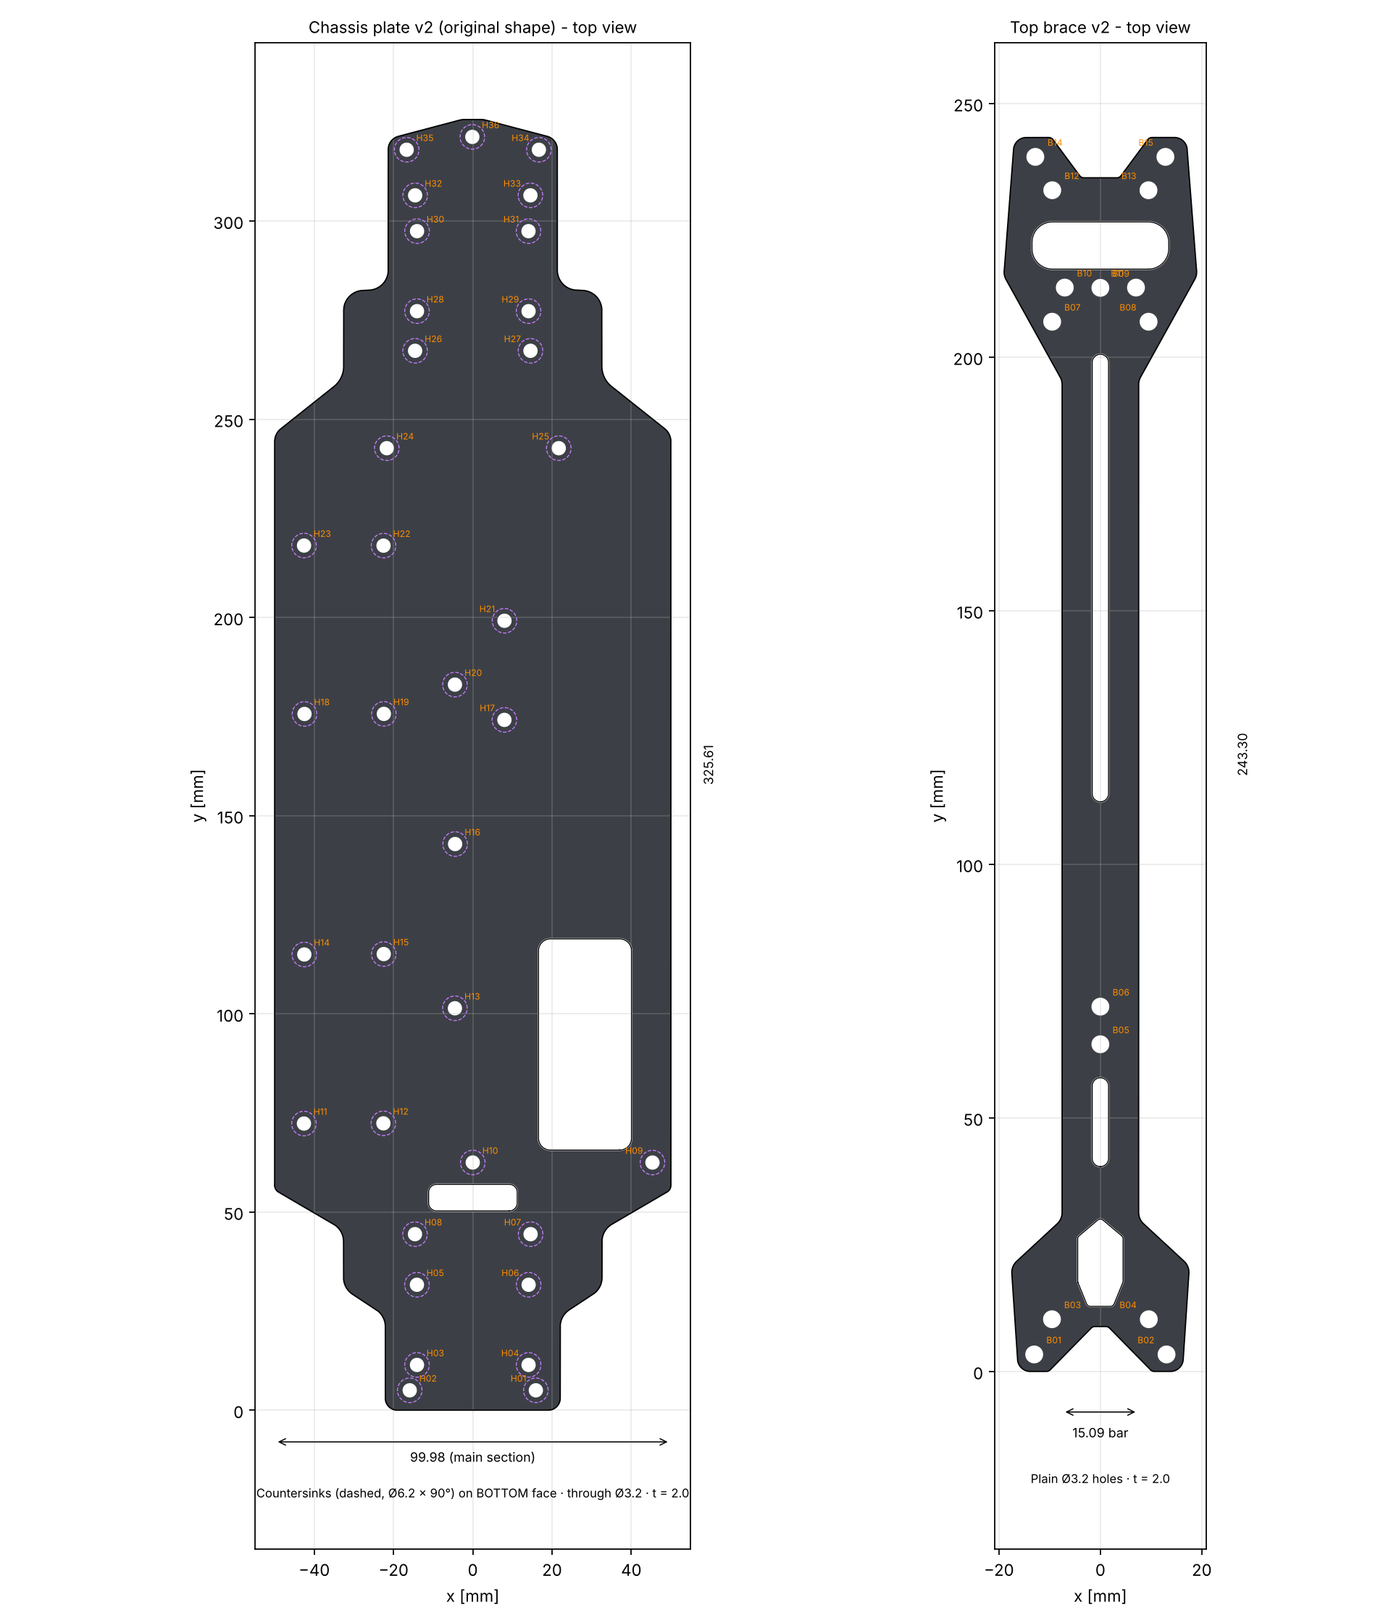
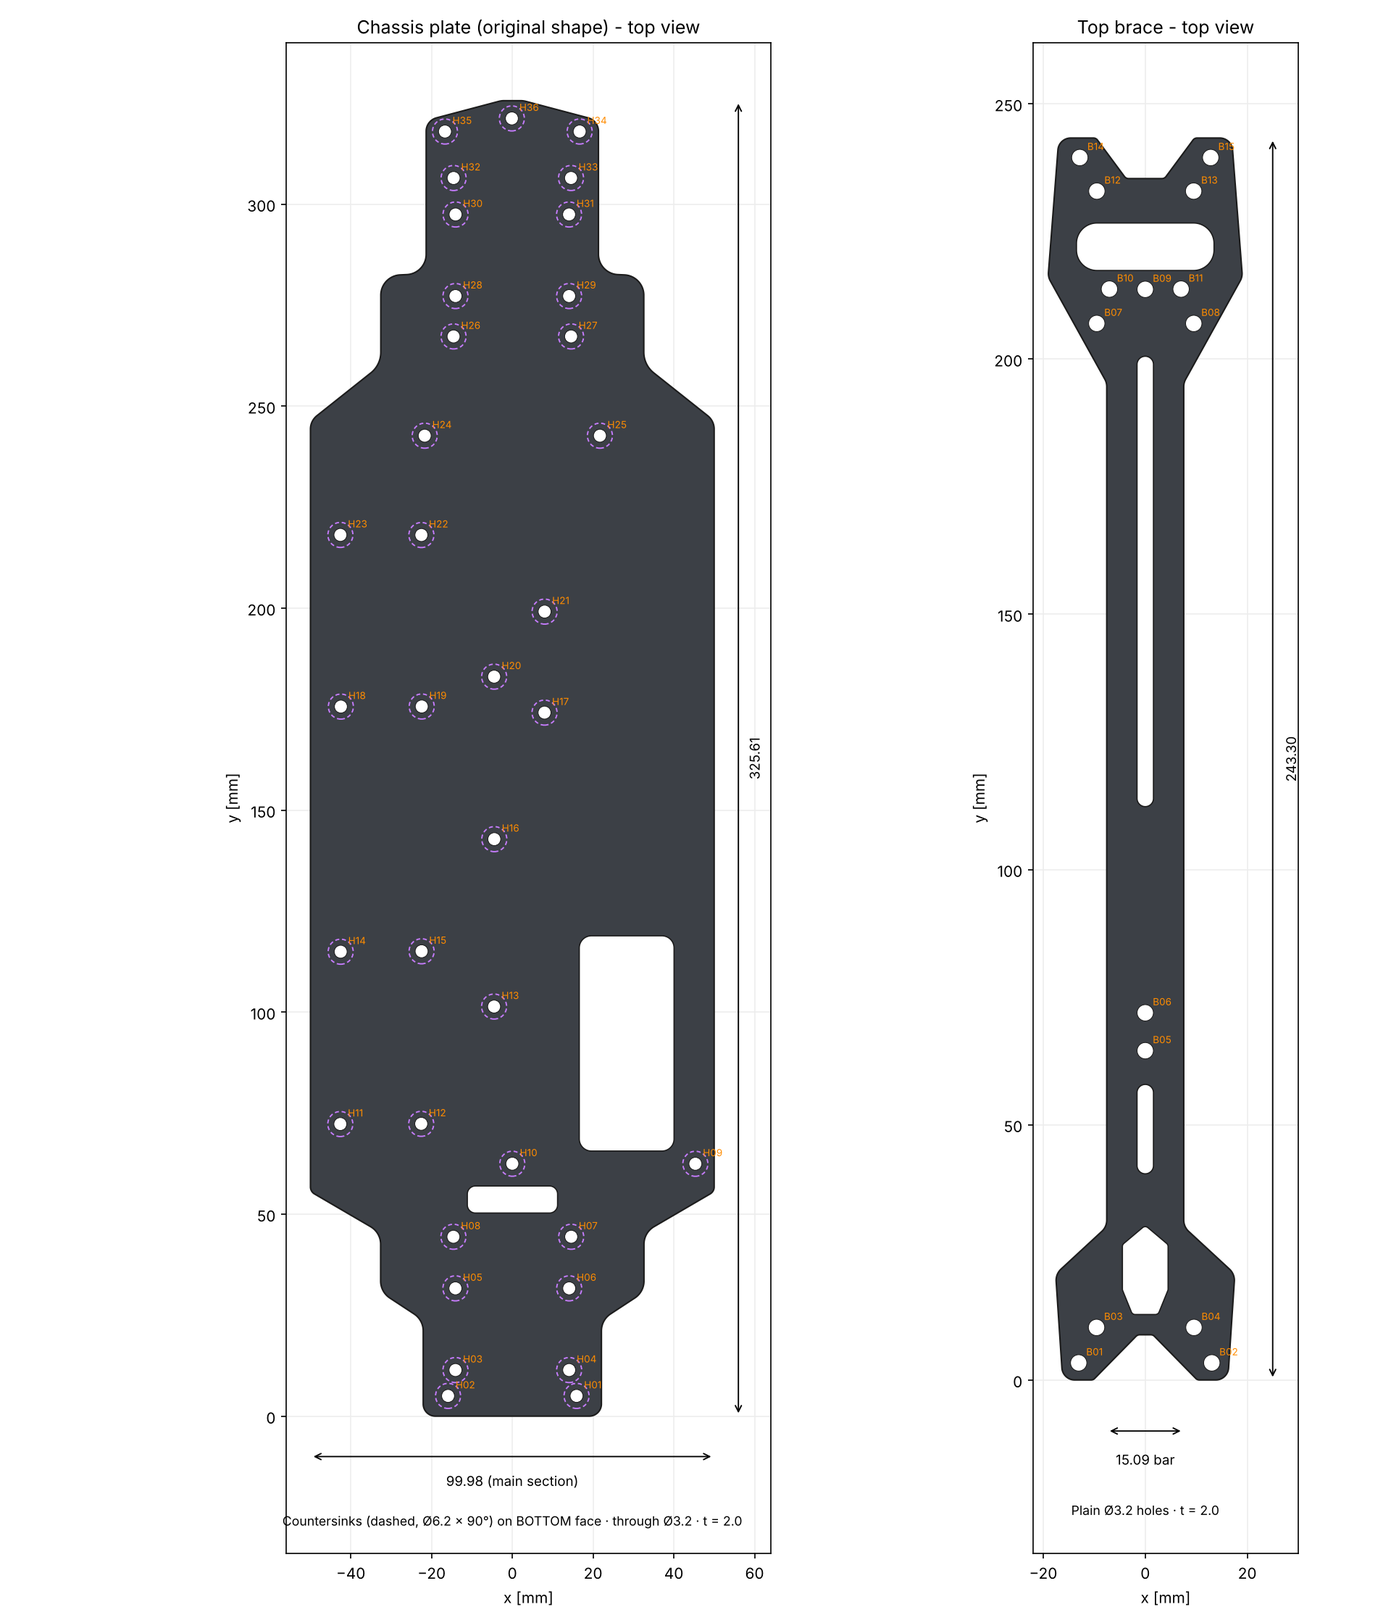
feat: add a script for the chassis plate and top brace templates
The drawing photos/cad_chassis_drawing.png and the 1:1 templates of the
chassis plate (A3, 2 x A4) and the top brace (A4) had no generator in
the repository and still showed version marks in their text. The new
script generate_chassis_templates.py redraws all four files from the
geometry data:

- A3 and A4 templates with outline, cutouts, holes with centre cross,
  countersinks, hole labels and two 100 mm bars per page
- 2 x A4 template with the 20 mm overlap zone (y = 150 to 170 mm)
- drawing with hole labels and the main dimensions (99.98, 325.61,
  15.09, 243.30 mm, calculated from the geometry data)
- option --print-scale for a PDF viewer with a fixed print scale

Check: the hole distances in the A3 template match the geometry data
(0.0 mm deviation). The drawing is identical on repeated runs.

Claude-Session: https://claude.ai/code/session_012MJxxDDaacyAL3YFN2nfVb

diff --git a/scripts/cad/generate_chassis_templates.py b/scripts/cad/generate_chassis_templates.py
@@ -1,0 +1,296 @@
+"""Generate the drawing and the 1:1 print templates of the chassis plate and the top brace.
+
+Outputs (from the geometry data in cad/chassis):
+* photos/cad_chassis_drawing.png: top view of the chassis plate and the top brace with
+  hole labels and main dimensions
+* cad/chassis/chassis_plate/chassis_plate_T410R_1to1_A3.pdf: 1:1 template of the chassis
+  plate on one A3 page (portrait)
+* cad/chassis/chassis_plate/chassis_plate_T410R_1to1_A4x2.pdf: 1:1 template of the chassis
+  plate on two A4 pages (portrait) with a 20 mm overlap zone
+* cad/chassis/top_brace/top_brace_T410R_1to1_A4.pdf: 1:1 template of the top brace on one
+  A4 page (portrait)
+
+The templates are drawn for printing at 100 % ("actual size"). For a PDF viewer that prints
+at another fixed scale, the option --print-scale (for example 0.97) enlarges the content by
+1/print_scale; then use --suffix to keep the 100 % files.
+
+Usage (from the root directory of the repository):
+    python scripts/cad/generate_chassis_templates.py [--print-scale 1.0] [--suffix ""]
+
+Requires the packages matplotlib, numpy and reportlab.
+"""
+import argparse
+import json
+import math
+import os
+import sys
+
+import numpy as np
+import matplotlib
+matplotlib.use("Agg")
+import matplotlib.pyplot as plt  # noqa: E402
+from matplotlib.patches import Circle  # noqa: E402
+from matplotlib.patches import Polygon as MPoly  # noqa: E402
+from reportlab.lib.pagesizes import A3, A4  # noqa: E402
+from reportlab.lib.units import mm  # noqa: E402
+from reportlab.pdfgen import canvas  # noqa: E402
+
+sys.path.insert(0, os.path.dirname(os.path.abspath(__file__)))
+from generate_drawing import contour_points, FILL, EDGE, CSK as CSK_PNG, LABEL  # noqa: E402
+from generate_print_template import contour_path, text, bar, RED, CSK, BLUE  # noqa: E402
+
+CAD = "cad/chassis"
+PLATE_JSON = f"{CAD}/chassis_plate/chassis_plate_geometry.json"
+BRACE_JSON = f"{CAD}/top_brace/top_brace_geometry.json"
+ZONE = (150.0, 170.0)            # overlap zone of the A4x2 template (plate y), no holes inside
+DARK = (0.3, 0.3, 0.3)
+
+
+def load(path):
+    with open(path, encoding="utf-8") as f:
+        return json.load(f)
+
+
+def extent(g):
+    p = contour_points(g["outline"], n=2000)
+    return p[:, 0].min(), p[:, 0].max(), p[:, 1].min(), p[:, 1].max()
+
+
+def width_at(g, y):
+    """Width of the outline at the height y (outer intersections of the contour)."""
+    p = contour_points(g["outline"], n=2000)
+    q = np.roll(p, -1, axis=0)
+    xs = []
+    for (x0, y0), (x1, y1) in zip(p, q):
+        if (y0 - y) * (y1 - y) <= 0 and y0 != y1:
+            xs.append(x0 + (y - y0) / (y1 - y0) * (x1 - x0))
+    return max(xs) - min(xs)
+
+
+def hole_distance(g, a, b):
+    h = {k["id"]: k for k in g["holes"]}
+    return math.hypot(h[a]["x"] - h[b]["x"], h[a]["y"] - h[b]["y"])
+
+
+# ---------------------------------------------------------------- PDF templates
+def draw_part(c, g):
+    """Outline, cutouts, holes with centre cross, countersinks and labels (1 unit = 1 mm)."""
+    c.setStrokeColorRGB(0, 0, 0)
+    c.setLineWidth(0.25)
+    c.setDash()
+    c.drawPath(contour_path(c, g["outline"]), stroke=1, fill=0)
+    for cut in g["cutouts"].values():
+        c.drawPath(contour_path(c, cut), stroke=1, fill=0)
+    for h in g["holes"]:
+        x, y = h["x"], h["y"]
+        if g.get("csk_d", 0) > g["hole_d"]:
+            c.setDash([0.6, 0.5])
+            c.setLineWidth(0.15)
+            c.setStrokeColorRGB(*CSK)
+            c.circle(x, y, g["csk_d"] / 2, stroke=1, fill=0)
+        c.setDash()
+        c.setLineWidth(0.2)
+        c.setStrokeColorRGB(*RED)
+        c.circle(x, y, g["hole_d"] / 2, stroke=1, fill=0)
+        c.setLineWidth(0.1)
+        c.setStrokeColorRGB(0, 0, 0)
+        c.line(x - 2.6, y, x + 2.6, y)
+        c.line(x, y - 2.6, x, y + 2.6)
+        text(c, x + 2.4, y + 2.4, h["id"], 1.9, (0.2, 0.2, 0.2))
+
+
+def write_notes(c, x, y, lines):
+    for s, size, bold, col in lines:
+        text(c, x, y, s, size, col, bold)
+        y -= max(size * 1.45, 1.2)
+
+
+def print_lines(print_scale):
+    pct = f"{print_scale * 100:g}"
+    if print_scale == 1.0:
+        return [('PRINT AT 100 % ("actual size"), no fit to page.', 2.3, True, (0, 0, 0))]
+    return [(f"PRINT AT {pct} % (scale of your PDF viewer).", 2.3, True, (0, 0, 0)),
+            (f"The drawing is pre-scaled to {100 / print_scale:.2f} % (100/{pct}).", 2.2, False, (0, 0, 0))]
+
+
+def plate_lines(g, title, print_scale):
+    k_ = (0, 0, 0)
+    return [(title, 3.0, True, k_), ("", 1.2, False, k_)] + print_lines(print_scale) + [
+        ("Check both 100 mm bars with a ruler before use.", 2.2, False, k_),
+        ("", 1.2, False, k_),
+        ("Top view (side without countersinks): place the plate with the countersinks facing down.", 2.2, False, k_),
+        (f"Red: through holes Ø{g['hole_d']:g} mm with centre cross. Dashed circles: countersinks "
+         f"Ø{g['csk_d']:g} mm (bottom face).", 2.2, False, k_),
+        ("Scaled to caliper values: width 99.98 mm, H11 to H23 %.2f mm (centres)." % hole_distance(g, "H11", "H23"),
+         2.2, False, DARK),
+        ("Origin: x = 0 centre line, y = 0 end edge with H01 to H04 (End B).", 2.2, False, DARK),
+    ]
+
+
+def canvas_for(path, pagesize, title, subject):
+    c = canvas.Canvas(path, pagesize=pagesize)
+    c.setTitle(title)
+    c.setAuthor("prototyping.rc.speedrun")
+    c.setSubject(subject)
+    return c
+
+
+def plate_a3(path, g, print_scale):
+    k = mm / print_scale
+    pw, ph = A3[0] / k, A3[1] / k                       # page size in printed mm
+    c = canvas_for(path, A3, f"Chassis plate - 1:1 template ({print_scale * 100:g} %)",
+                   "Carten T410R chassis plate, A3 portrait")
+    c.saveState()
+    c.scale(k, k)
+    write_notes(c, 12, ph - 12, plate_lines(g, "Carten T410R chassis plate - 1:1 template, A3", print_scale))
+    bar(c, 12, 18, True, "100 mm (x)")
+    bar(c, 30, 40, False, "100 mm (y)")
+    c.translate(pw / 2, 40)                              # plate coordinates
+    draw_part(c, g)
+    text(c, 0, -5, "End B (H01 to H04)", 2.4, anchor="c")
+    text(c, 0, extent(g)[3] + 4, "End A (H34 to H36)", 2.4, anchor="c")
+    c.restoreState()
+    c.showPage()
+    c.save()
+
+
+def plate_a4x2(path, g, print_scale):
+    k = mm / print_scale
+    pw, ph = A4[0] / k, A4[1] / k
+    xmax = pw / 2 - 5
+    ytop = extent(g)[3] + 6
+    if any(ZONE[0] - g["csk_d"] / 2 < h["y"] < ZONE[1] + g["csk_d"] / 2 for h in g["holes"]):
+        raise ValueError("a hole lies in the overlap zone")
+    # (plate y range, page y of plate y = 0, notes y, notes at the top)
+    pages = [((-6.0, ZONE[1] + 10), 22.0, ph - 10, True),
+             ((ZONE[0] - 10, ytop), ph - 5 - ytop, 88.0, False)]
+    c = canvas_for(path, A4, f"Chassis plate - 1:1 template on 2 x A4 ({print_scale * 100:g} %)",
+                   "Carten T410R chassis plate, 2 x A4 portrait")
+    for n, ((y0, y1), oy, ny, top) in enumerate(pages, start=1):
+        c.saveState()
+        c.scale(k, k)
+        lines = plate_lines(g, f"Carten T410R chassis plate - 1:1 template, A4 page {n} of 2", print_scale) + [
+            ("", 1.2, False, (0, 0, 0)),
+            ("Blue dashed: 20 mm overlap zone. Lay page 2 over page 1 so that", 2.2, False, BLUE),
+            ("both pairs of lines coincide.", 2.2, False, BLUE)]
+        write_notes(c, 8, ny, lines)
+        bar(c, pw / 2 - 50, 9 if top else 12, True, "100 mm (x)")
+        bar(c, 22, 40 if top else 105, False, "100 mm (y)")
+        c.translate(pw / 2, oy)
+        clip = c.beginPath()
+        clip.rect(-xmax, y0, 2 * xmax, y1 - y0)
+        c.clipPath(clip, stroke=0, fill=0)
+        draw_part(c, g)
+        c.setStrokeColorRGB(*BLUE)
+        c.setLineWidth(0.3)
+        c.setDash([2.0, 1.2])
+        for yz in ZONE:
+            c.line(-xmax, yz, xmax, yz)
+        text(c, -xmax + 1, ZONE[1] + 1.2, "overlap zone (20 mm)", 2.2, BLUE)
+        if top:
+            text(c, 0, -5, "End B (H01 to H04)", 2.4, anchor="c")
+        else:
+            text(c, 0, ytop - 2, "End A (H34 to H36)", 2.4, anchor="c")
+        c.restoreState()
+        c.showPage()
+    c.save()
+
+
+def brace_a4(path, g, print_scale):
+    k = mm / print_scale
+    pw, ph = A4[0] / k, A4[1] / k
+    k_ = (0, 0, 0)
+    lines = [("Carten T410R top brace - 1:1 template, A4", 3.0, True, k_), ("", 1.2, False, k_)] + \
+        print_lines(print_scale) + [
+        ("Check both 100 mm bars with a ruler before use.", 2.2, False, k_),
+        ("", 1.2, False, k_),
+        (f"Red: through holes Ø{g['hole_d']:g} mm with centre cross (not countersunk).", 2.2, False, k_),
+        ("Scaled to the caliper value of the bar width: %.2f mm." % width_at(g, 120.0), 2.2, False, DARK),
+        ("Origin: x = 0 centre line, y = 0 end edge with the hexagon cutout.", 2.2, False, DARK),
+    ]
+    c = canvas_for(path, A4, f"Top brace - 1:1 template ({print_scale * 100:g} %)", "Carten T410R top brace, A4 portrait")
+    c.saveState()
+    c.scale(k, k)
+    write_notes(c, 8, ph - 12, lines)
+    bar(c, 12, 15, True, "100 mm (x)")
+    bar(c, 190, 40, False, "100 mm (y)")
+    c.translate(150, 22)
+    draw_part(c, g)
+    c.restoreState()
+    c.showPage()
+    c.save()
+
+
+# ---------------------------------------------------------------- drawing (PNG)
+def draw_png_part(ax, g):
+    ax.add_patch(MPoly(contour_points(g["outline"]), closed=True, fc=FILL, ec=EDGE, lw=1.0, zorder=2))
+    for contour in g["cutouts"].values():
+        ax.add_patch(MPoly(contour_points(contour), closed=True, fc="white", ec=EDGE, lw=0.8, zorder=3))
+    for h in g["holes"]:
+        ax.add_patch(Circle((h["x"], h["y"]), g["hole_d"] / 2, fc="white", ec=EDGE, lw=0.5, zorder=5))
+        if g.get("csk_d", 0) > g["hole_d"]:
+            ax.add_patch(Circle((h["x"], h["y"]), g["csk_d"] / 2, fill=False, ec=CSK_PNG, lw=0.9,
+                                ls=(0, (3, 2)), zorder=5))
+        ax.annotate(h["id"], (h["x"], h["y"]), xytext=(5, 5), textcoords="offset points",
+                    fontsize=6.5, color=LABEL, zorder=6)
+    ax.set_aspect("equal")
+    ax.grid(True, color="#ededed", lw=0.8, zorder=0)
+    ax.set_axisbelow(True)
+    ax.set_xlabel("x [mm]")
+    ax.set_ylabel("y [mm]")
+
+
+def dim_arrows(ax, x0, x1, y_dim, label_w, xd, ymin, ymax):
+    ax.annotate("", (x0, y_dim), (x1, y_dim), arrowprops=dict(arrowstyle="<->", lw=0.9))
+    ax.text((x0 + x1) / 2, y_dim - 4, label_w, ha="center", va="top", fontsize=9)
+    ax.annotate("", (xd, ymin), (xd, ymax), arrowprops=dict(arrowstyle="<->", lw=0.9))
+    ax.text(xd + 2, (ymin + ymax) / 2, f"{ymax - ymin:.2f}", rotation=90, va="center", fontsize=9)
+
+
+def drawing(path, plate, brace):
+    fig, (a1, a2) = plt.subplots(1, 2, figsize=(12.8, 14.93), gridspec_kw=dict(width_ratios=[2.45, 1.0]))
+    draw_png_part(a1, plate)
+    x0, x1, y0, y1 = extent(plate)
+    dim_arrows(a1, x0, x1, -10, f"{x1 - x0:.2f} (main section)", x1 + 6, y0, y1)
+    a1.text(0, -24, f"Countersinks (dashed, Ø{plate['csk_d']:g} × {plate['csk_angle']:g}°) on BOTTOM face "
+                    f"· through Ø{plate['hole_d']:g} · t = {plate['thickness']:.1f}", ha="center", va="top", fontsize=8.5)
+    a1.set_xlim(-56, 64)
+    a1.set_ylim(-34, 340)
+    a1.set_title("Chassis plate (original shape) - top view")
+    draw_png_part(a2, brace)
+    x0, x1, y0, y1 = extent(brace)
+    wb = width_at(brace, 120.0)
+    dim_arrows(a2, -wb / 2, wb / 2, -10, f"{wb:.2f} bar", x1 + 6, y0, y1)
+    a2.text(0, -24, f"Plain Ø{brace['hole_d']:g} holes · t = {brace['thickness']:.1f}", ha="center", va="top",
+            fontsize=8.5)
+    a2.set_xlim(-22, 30)
+    a2.set_ylim(-34, 262)
+    a2.set_title("Top brace - top view")
+    fig.tight_layout()
+    fig.savefig(path, dpi=150)
+    plt.close(fig)
+
+
+def main():
+    parser = argparse.ArgumentParser(description="Drawing and 1:1 templates of the chassis plate and the top brace.")
+    parser.add_argument("--print-scale", type=float, default=1.0, help="scale of the PDF viewer (default 1.0)")
+    parser.add_argument("--suffix", default="", help="added to the PDF file names, for example _print97")
+    parser.add_argument("--drawing", default="photos/cad_chassis_drawing.png")
+    args = parser.parse_args()
+
+    plate, brace = load(PLATE_JSON), load(BRACE_JSON)
+    out = {
+        "a3": f"{CAD}/chassis_plate/chassis_plate_T410R_1to1_A3{args.suffix}.pdf",
+        "a4x2": f"{CAD}/chassis_plate/chassis_plate_T410R_1to1_A4x2{args.suffix}.pdf",
+        "brace": f"{CAD}/top_brace/top_brace_T410R_1to1_A4{args.suffix}.pdf",
+    }
+    plate_a3(out["a3"], plate, args.print_scale)
+    plate_a4x2(out["a4x2"], plate, args.print_scale)
+    brace_a4(out["brace"], brace, args.print_scale)
+    drawing(args.drawing, plate, brace)
+    for p in list(out.values()) + [args.drawing]:
+        print(f"Wrote {p}")
+
+
+if __name__ == "__main__":
+    main()

diff --git a/cad/readme.md b/cad/readme.md
@@ -68,7 +68,7 @@ Own files are released under the licenses of this repository (see the root readm
 * Sizes and volumes are taken from the STL files. The cutout sizes are approximate values from the geometry data.
 
 ### Files
-The files of the chassis plate are stored in the directory `/chassis/chassis_plate`, the files of the top brace in `/chassis/top_brace` and the test print files in `/chassis/test_print`. The STEP, STL, DXF, OpenSCAD and PDF files and the hole tables are generated from the geometry data (`*_geometry.json`). The DXF files can be regenerated with a script (see [DXF generation](#dxf-generation)).
+The files of the chassis plate are stored in the directory `/chassis/chassis_plate`, the files of the top brace in `/chassis/top_brace` and the test print files in `/chassis/test_print`. The STEP, STL, DXF, OpenSCAD and PDF files and the hole tables are generated from the geometry data (`*_geometry.json`). The DXF files can be regenerated with a script (see [DXF generation](#dxf-generation)). The PDF templates and the drawing `photos/cad_chassis_drawing.png` are generated with the script `generate_chassis_templates.py` (see [scripts](#scripts)).
 
 | File | Format | Use |
 |:---|:---|:---|
@@ -79,12 +79,12 @@ The files of the chassis plate are stored in the directory `/chassis/chassis_pla
 | `chassis_plate_T410R.dxf`, `top_brace_T410R.dxf` | DXF | 2D drawings for CNC manufacturing with the layers `OUTLINE`, `CUTOUT`, `HOLE_THROUGH` and `CSK_BOTTOM_INFO` (countersinks, chassis plate only) |
 | `chassis_plate_T410R.scad`, `top_brace_T410R.scad` | OpenSCAD | Parametric models. The parameters `thickness`, `hole_d`, `csk_d` and `csk_angle` are defined at the top of the file. |
 | `chassis_plate_T410R_1to1_A3.pdf` | PDF (A3, 1 page) | 1:1 template of the chassis plate |
-| `chassis_plate_T410R_1to1_A4x2.pdf` | PDF (A4, 2 pages) | 1:1 template of the chassis plate on two A4 sheets |
+| `chassis_plate_T410R_1to1_A4x2.pdf` | PDF (A4, 2 pages) | 1:1 template of the chassis plate on two A4 sheets (portrait) with a 20 mm overlap zone |
 | `top_brace_T410R_1to1_A4.pdf` | PDF (A4, 1 page) | 1:1 template of the top brace |
 | `chassis_plate_hole_table.csv`, `top_brace_hole_table.csv` | CSV | Hole coordinates (x, y), through hole diameter and countersink diameter |
 | `chassis_plate_geometry.json`, `top_brace_geometry.json` | JSON | Geometry data: outline, cutouts, holes, thickness and countersink parameters |
 
-The PDF templates must be printed at 100 % scale. The 100 mm bar on the template is used to check the scale.
+The PDF templates must be printed at 100 % scale. The 100 mm bars on the template are used to check the scale. For a PDF viewer that prints at another fixed scale, the script `generate_chassis_templates.py` generates pre-scaled templates (options `--print-scale` and `--suffix`).
 
 ### Coordinate system
 * Units are millimeters. All coordinates refer to the top view.
@@ -379,7 +379,7 @@ The measurement sheet `bulkhead_upper_measurement_sheet.pdf` shows the interface
 * Mass: 55 g in 7075. Straight pockets are possible after the interfaces are confirmed.
 
 ## Scripts
-The directory `scripts/cad` contains the Python scripts that generate the files of the chassis plates and the bulkheads. The scripts are run from the root directory of the repository. Without arguments, the scripts of the chassis plates read and write the files of the speedrun chassis plates, and the scripts of the bulkhead read and write the files of the lower bulkhead and the upper bulkhead. The option `--help` lists the arguments of each script. The required packages are installed with `pip install cadquery ezdxf matplotlib reportlab`.
+The directory `scripts/cad` contains the Python scripts that generate the files of the chassis plates and the bulkheads. The scripts are run from the root directory of the repository. Without arguments, the scripts of the chassis plates read and write the files of the speedrun chassis plates (except `generate_chassis_templates.py`, which writes the templates of the chassis plate and the top brace), and the scripts of the bulkhead read and write the files of the lower bulkhead and the upper bulkhead. The option `--help` lists the arguments of each script. The required packages are installed with `pip install cadquery ezdxf matplotlib reportlab`.
 
 | Script | Input | Output | Package |
 |:---|:---|:---|:---|
@@ -391,6 +391,7 @@ The directory `scripts/cad` contains the Python scripts that generate the files 
 | `generate_drawing.py` | Geometry data of the speedrun chassis plate (wide) and the chassis plate | Drawing `photos/cad_chassis_speedrun_wide_drawing.png` | matplotlib |
 | `generate_window_preview.py` | Geometry data of both speedrun chassis plates | Preview image `photos/cad_chassis_speedrun_wide_motor10_preview.png` | matplotlib |
 | `generate_print_template.py` | Geometry data of both speedrun chassis plates and the chassis plate | Print templates of both speedrun chassis plates (option `--plate wide` or `--plate motor10`). The option `--print-scale` sets the scale of the PDF viewer. | reportlab |
+| `generate_chassis_templates.py` | Geometry data of the chassis plate and the top brace | Print templates `chassis_plate_T410R_1to1_A3.pdf`, `chassis_plate_T410R_1to1_A4x2.pdf`, `top_brace_T410R_1to1_A4.pdf` and the drawing `photos/cad_chassis_drawing.png`. The option `--print-scale` sets the scale of the PDF viewer. | matplotlib, reportlab |
 | `generate_bulkhead_lower.py` | Parameter file of the lower bulkhead | STEP and STL file, test print STL file | cadquery |
 | `generate_bulkhead_drawings.py` | STEP, STL and parameter file of the lower bulkhead | Preview image `photos/cad_bulkhead_lower_preview.png` and measurement sheet (PDF) | cadquery, matplotlib |
 | `generate_bulkhead_upper.py` | Parameter files of the upper and the lower bulkhead | STEP and STL file of the upper part, test print STL file, assembly STEP file, interference check | cadquery |
@@ -410,6 +411,12 @@ python scripts/cad/generate_drawing.py
 python scripts/cad/generate_window_preview.py
 python scripts/cad/generate_print_template.py --plate wide
 python scripts/cad/generate_print_template.py --plate motor10
+```
+
+The following command regenerates the print templates of the chassis plate and the top brace and the drawing `photos/cad_chassis_drawing.png` from their geometry data:
+
+```bash
+python scripts/cad/generate_chassis_templates.py
 ```
 
 * The regenerated geometry data, STL files and images are identical to the files in the repository. The STEP, DXF and PDF files differ only in header data such as the creation date and internal IDs.
